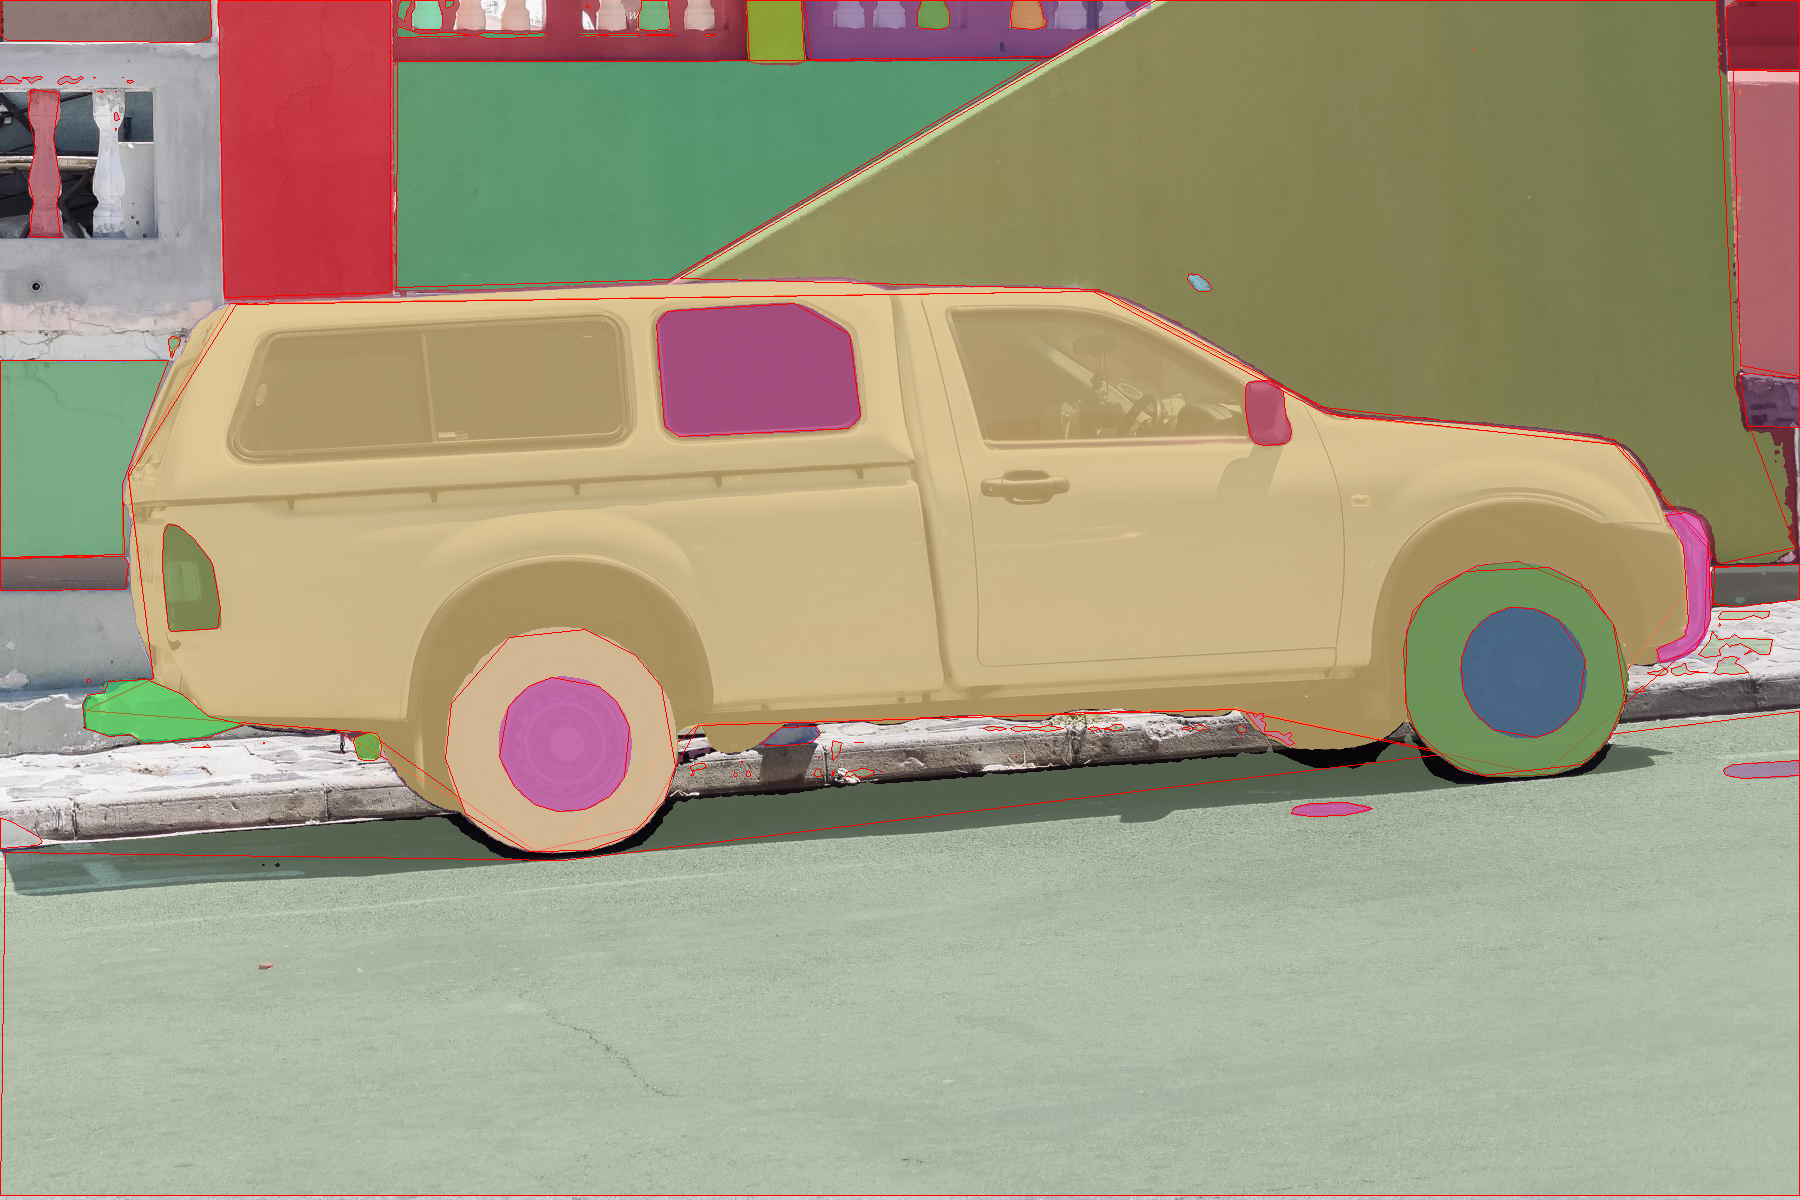
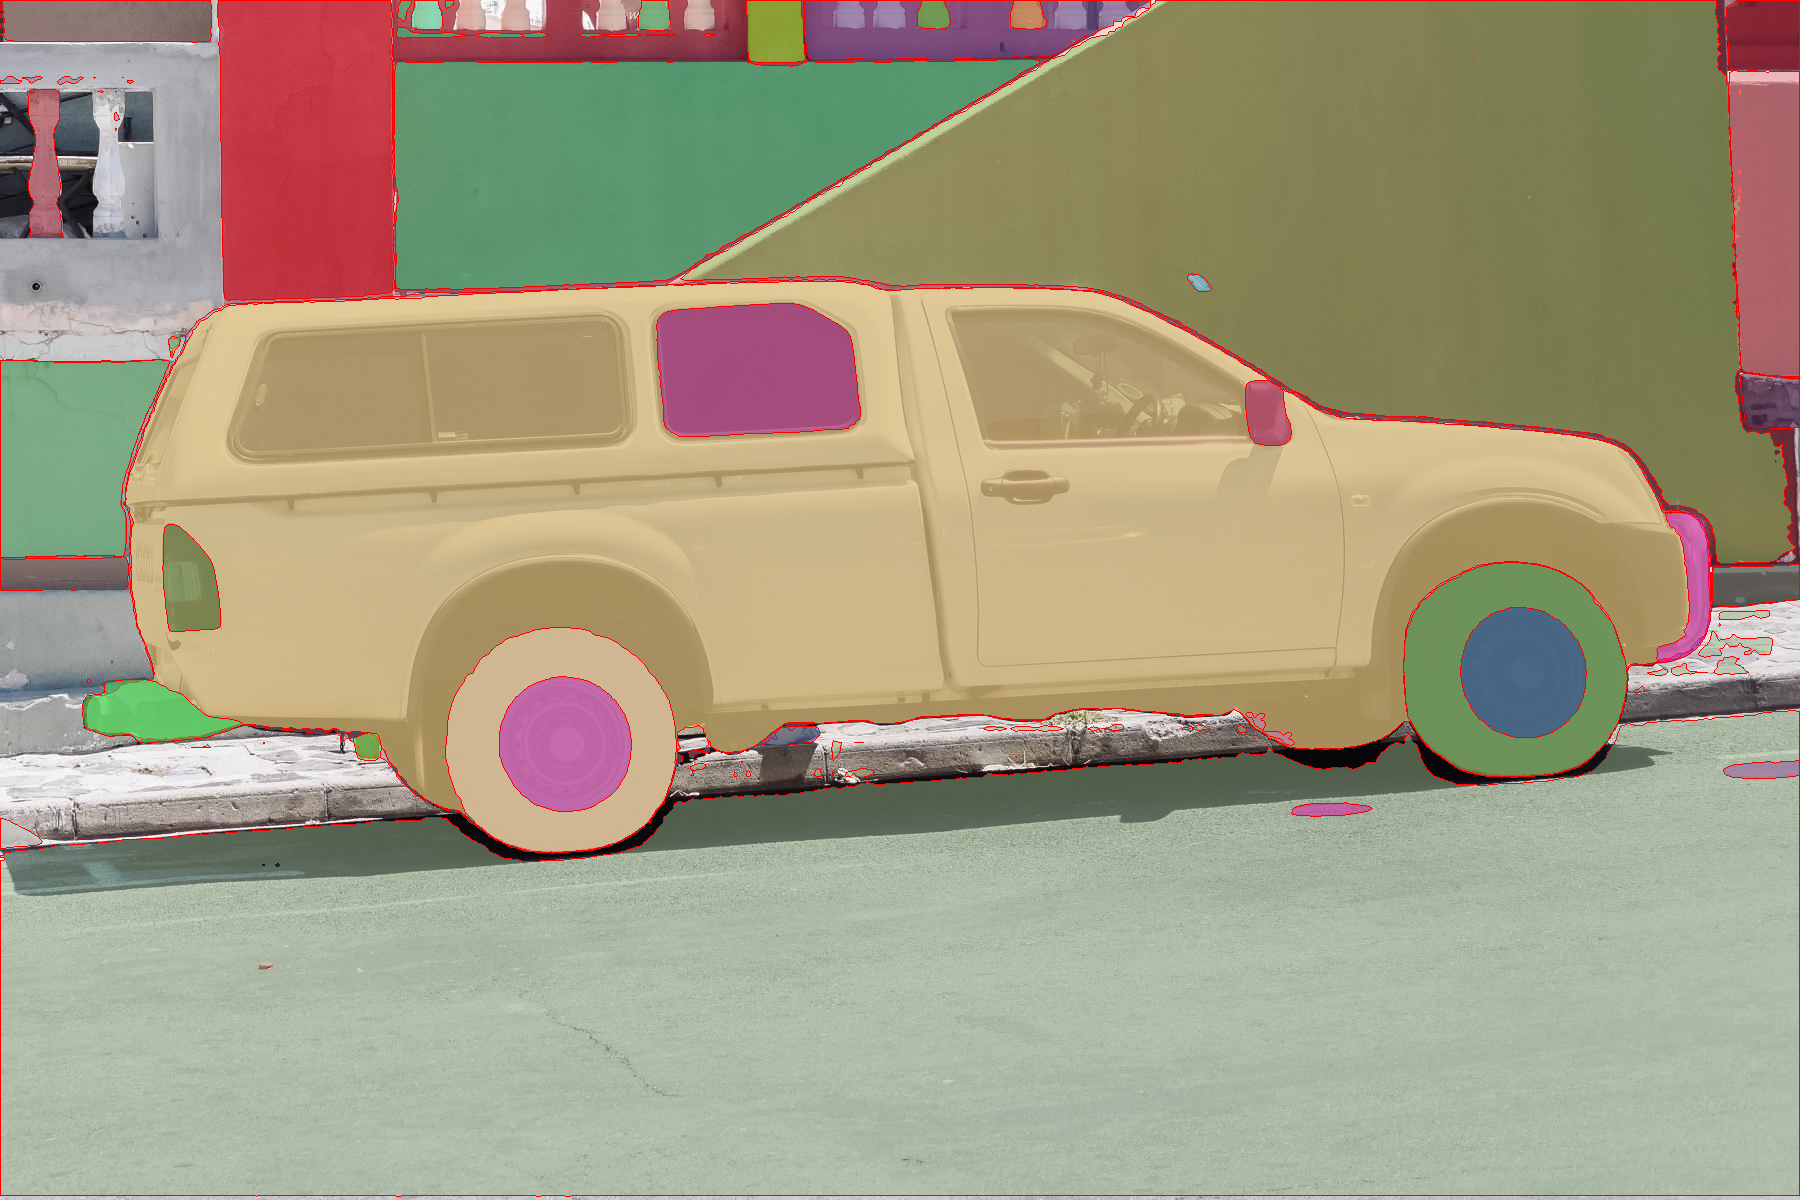
Fix jagged contour lines in auto mode by removing approxPolyDP
Draw contours directly from cv2.findContours (CHAIN_APPROX_NONE)
without polygon approximation, producing smooth mask boundaries.

https://claude.ai/code/session_01MAuv6aMbqY5yU5HF3DvWMD

diff --git a/image_segmentation/segment-anything-2/segment-anything-2.py b/image_segmentation/segment-anything-2/segment-anything-2.py
@@ -338,8 +338,7 @@ def recognize_from_image_auto(image_encoder, prompt_encoder, mask_decoder):
             # Draw contour
             mask_uint8 = mask.astype(np.uint8)
             contours, _ = cv2.findContours(mask_uint8, cv2.RETR_EXTERNAL, cv2.CHAIN_APPROX_NONE)
-            smoothed = [cv2.approxPolyDP(c, 0.01 * cv2.arcLength(c, True), True) for c in contours]
-            cv2.drawContours(image, smoothed, -1, (0, 0, 255), thickness=1, lineType=cv2.LINE_AA)
+            cv2.drawContours(image, contours, -1, (0, 0, 255), thickness=1, lineType=cv2.LINE_AA)
         image = np.clip(image, 0, 255).astype(np.uint8)
 
         savepath = get_savepath(args.savepath, image_path, ext='.png')
